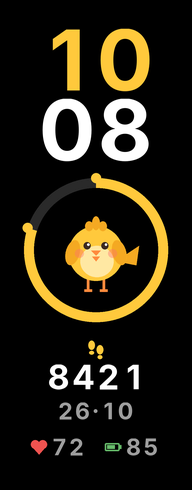
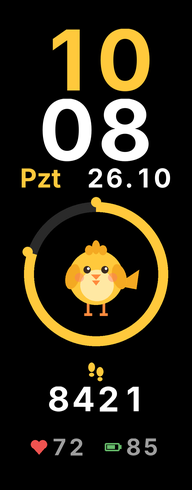
Watch face: weekday and date under the time
Claude-Session: https://claude.ai/code/session_01Hcguc7iLSGSMP5mp3pe7EN

Changed region(s): [[0.0938, 0.3367, 0.9062, 0.8571]]

diff --git a/watchface/fitwren/make_face.py b/watchface/fitwren/make_face.py
@@ -35,6 +35,7 @@ SRC_HOUR = "0811"
 SRC_MINUTE = "1011"
 SRC_DAY = "1812"
 SRC_MONTH = "1012"
+SRC_WEEKDAY = "2012"
 SRC_STEPS = "0821"
 SRC_STEP_PERCENT = "1021"
 SRC_HEART = "0822"
@@ -73,9 +74,10 @@ def digits(prefix, height, color):
 def glyph(name, text, height, color):
     font = ImageFont.truetype(FONT, int(height * 1.32) * SS)
     box = font.getbbox(text)
+    line = font.getbbox("0")  # align on the digits' baseline and height
     width = (box[2] - box[0]) // SS + 2
     img = canvas(width, height)
-    ImageDraw.Draw(img).text(((width * SS - (box[2] - box[0])) / 2 - box[0], (height * SS - (box[3] - box[1])) / 2 - box[1]), text, font=font, fill=color)
+    ImageDraw.Draw(img).text(((width * SS - (box[2] - box[0])) / 2 - box[0], (height * SS - (line[3] - line[1])) / 2 - line[1]), text, font=font, fill=color)
     save(finish(img, width, height), name)
     return name, width, height
 
@@ -224,11 +226,27 @@ def main():
     sample["hour"] = (hx, 28, big_hour, bw, "10")
     sample["minute"] = (hx, 98, big_min, bw, "08")
 
+    # Date under the time: weekday (0 = Sunday) and day.month.
+    date_digits, ddw, ddh = digits("date", 20, WHITE)
+    days = ["Paz", "Pzt", "Sal", "Çar", "Per", "Cum", "Cmt"]
+    day_files = [glyph(f"weekday_{i}.png", name, ddh, BODY) for i, name in enumerate(days)]
+    wd_w = max(f[1] for f in day_files)
+    dot, dw, dh = glyph("dot.png", ".", ddh, WHITE)
+    gap = 6
+    date_w = wd_w + gap + ddw * 2 + dw + ddw * 2
+    dx = (W - date_w) // 2
+    dy = 168
+    widgets.append(image_list("weekday", dx, dy, [(i, f[0]) for i, f in enumerate(day_files)], wd_w, ddh, SRC_WEEKDAY))
+    nx = dx + wd_w + gap
+    widgets.append(number("day", nx, dy, date_digits, ddw, ddh, 2, SRC_DAY))
+    widgets.append(image("date_dot", nx + 2 * ddw, dy, dot, dw, dh))
+    widgets.append(number("month", nx + 2 * ddw + dw, dy, date_digits, ddw, ddh, 2, SRC_MONTH))
+
     ring_size, ring_w = 156, 10
     rings = []
     for p in range(0, 101, 10):
         rings.append((p, save(ring(ring_size, ring_w, p), f"ring_{p}.png")))
-    ry = 172
+    ry = 196
     widgets.append(image_list("goal", (W - ring_size) // 2, ry, rings, ring_size, ring_size, SRC_STEP_PERCENT))
     bird_size = 104
     save(bird(bird_size), "bird.png")
@@ -236,16 +254,9 @@ def main():
 
     step_icon = 22
     save(icon_steps(step_icon), "icon_steps.png")
-    widgets.append(image("steps_icon", (W - step_icon) // 2, 338, "icon_steps.png", step_icon, step_icon))
+    widgets.append(image("steps_icon", (W - step_icon) // 2, 360, "icon_steps.png", step_icon, step_icon))
     steps_w = mw * 5
-    widgets.append(number("steps", (W - steps_w) // 2, 364, mid, mw, mh, 5, SRC_STEPS, align=1, blanking=1))
-
-    dot, dw, dh = glyph("dot.png", ".", sh, GREY)
-    date_w = sw * 2 + dw + sw * 2
-    dx = (W - date_w) // 2
-    widgets.append(number("day", dx, 402, small, sw, sh, 2, SRC_DAY))
-    widgets.append(image("date_dot", dx + 2 * sw, 402, dot, dw, dh))
-    widgets.append(number("month", dx + 2 * sw + dw, 402, small, sw, sh, 2, SRC_MONTH))
+    widgets.append(number("steps", (W - steps_w) // 2, 386, mid, mw, mh, 5, SRC_STEPS, align=1, blanking=1))
 
     icon = 18
     save(icon_heart(icon), "icon_heart.png")
@@ -269,11 +280,12 @@ def main():
     paste_number(big_min, hx, 98, bw, "08")
     paste("ring_80.png", (W - ring_size) // 2, ry)
     paste("bird.png", (W - bird_size) // 2, ry + (ring_size - bird_size) // 2 - 4)
-    paste("icon_steps.png", (W - step_icon) // 2, 338)
-    paste_number(mid, (W - mw * 4) // 2, 364, mw, "8421")
-    paste_number(small, dx, 402, sw, "26")
-    paste(dot, dx + 2 * sw, 402)
-    paste_number(small, dx + 2 * sw + dw, 402, sw, "10")
+    paste(day_files[1][0], dx, dy)
+    paste_number(date_digits, nx, dy, ddw, "26")
+    paste(dot, nx + 2 * ddw, dy)
+    paste_number(date_digits, nx + 2 * ddw + dw, dy, ddw, "10")
+    paste("icon_steps.png", (W - step_icon) // 2, 360)
+    paste_number(mid, (W - mw * 4) // 2, 386, mw, "8421")
     paste("icon_heart.png", 30, 438)
     paste_number(small, 30 + icon + 3, 438, sw, "72")
     paste("icon_battery.png", 104, 438)
